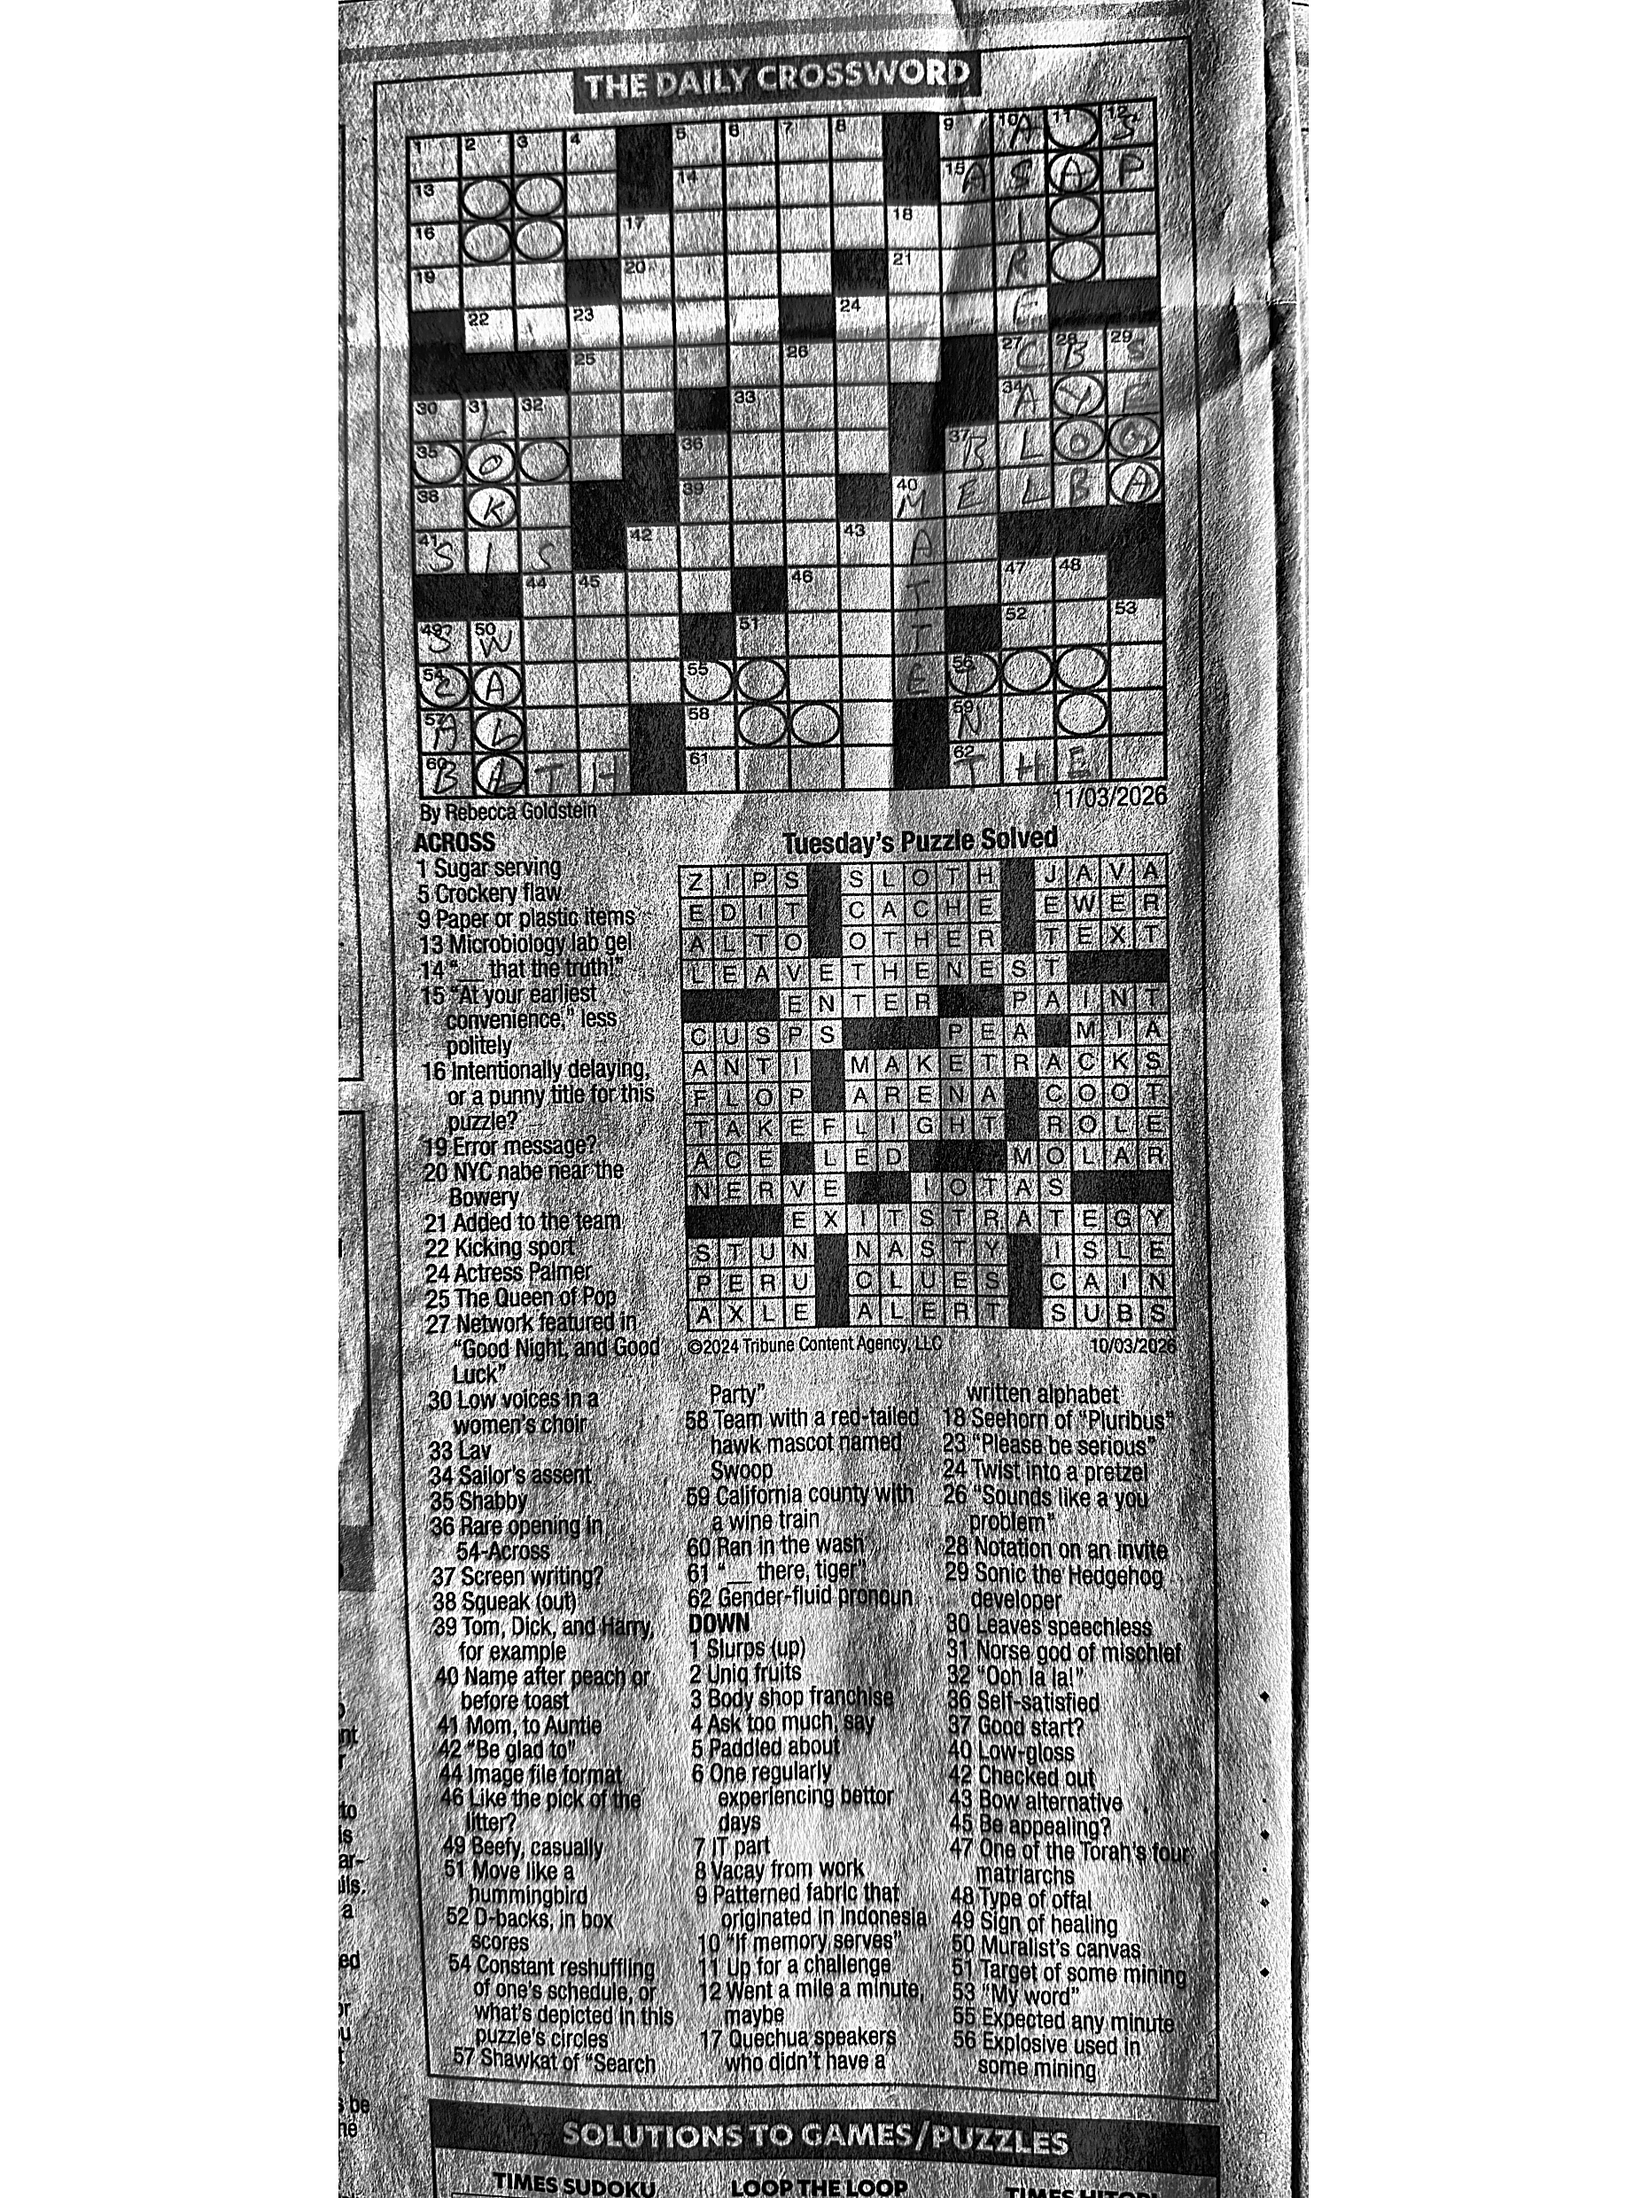
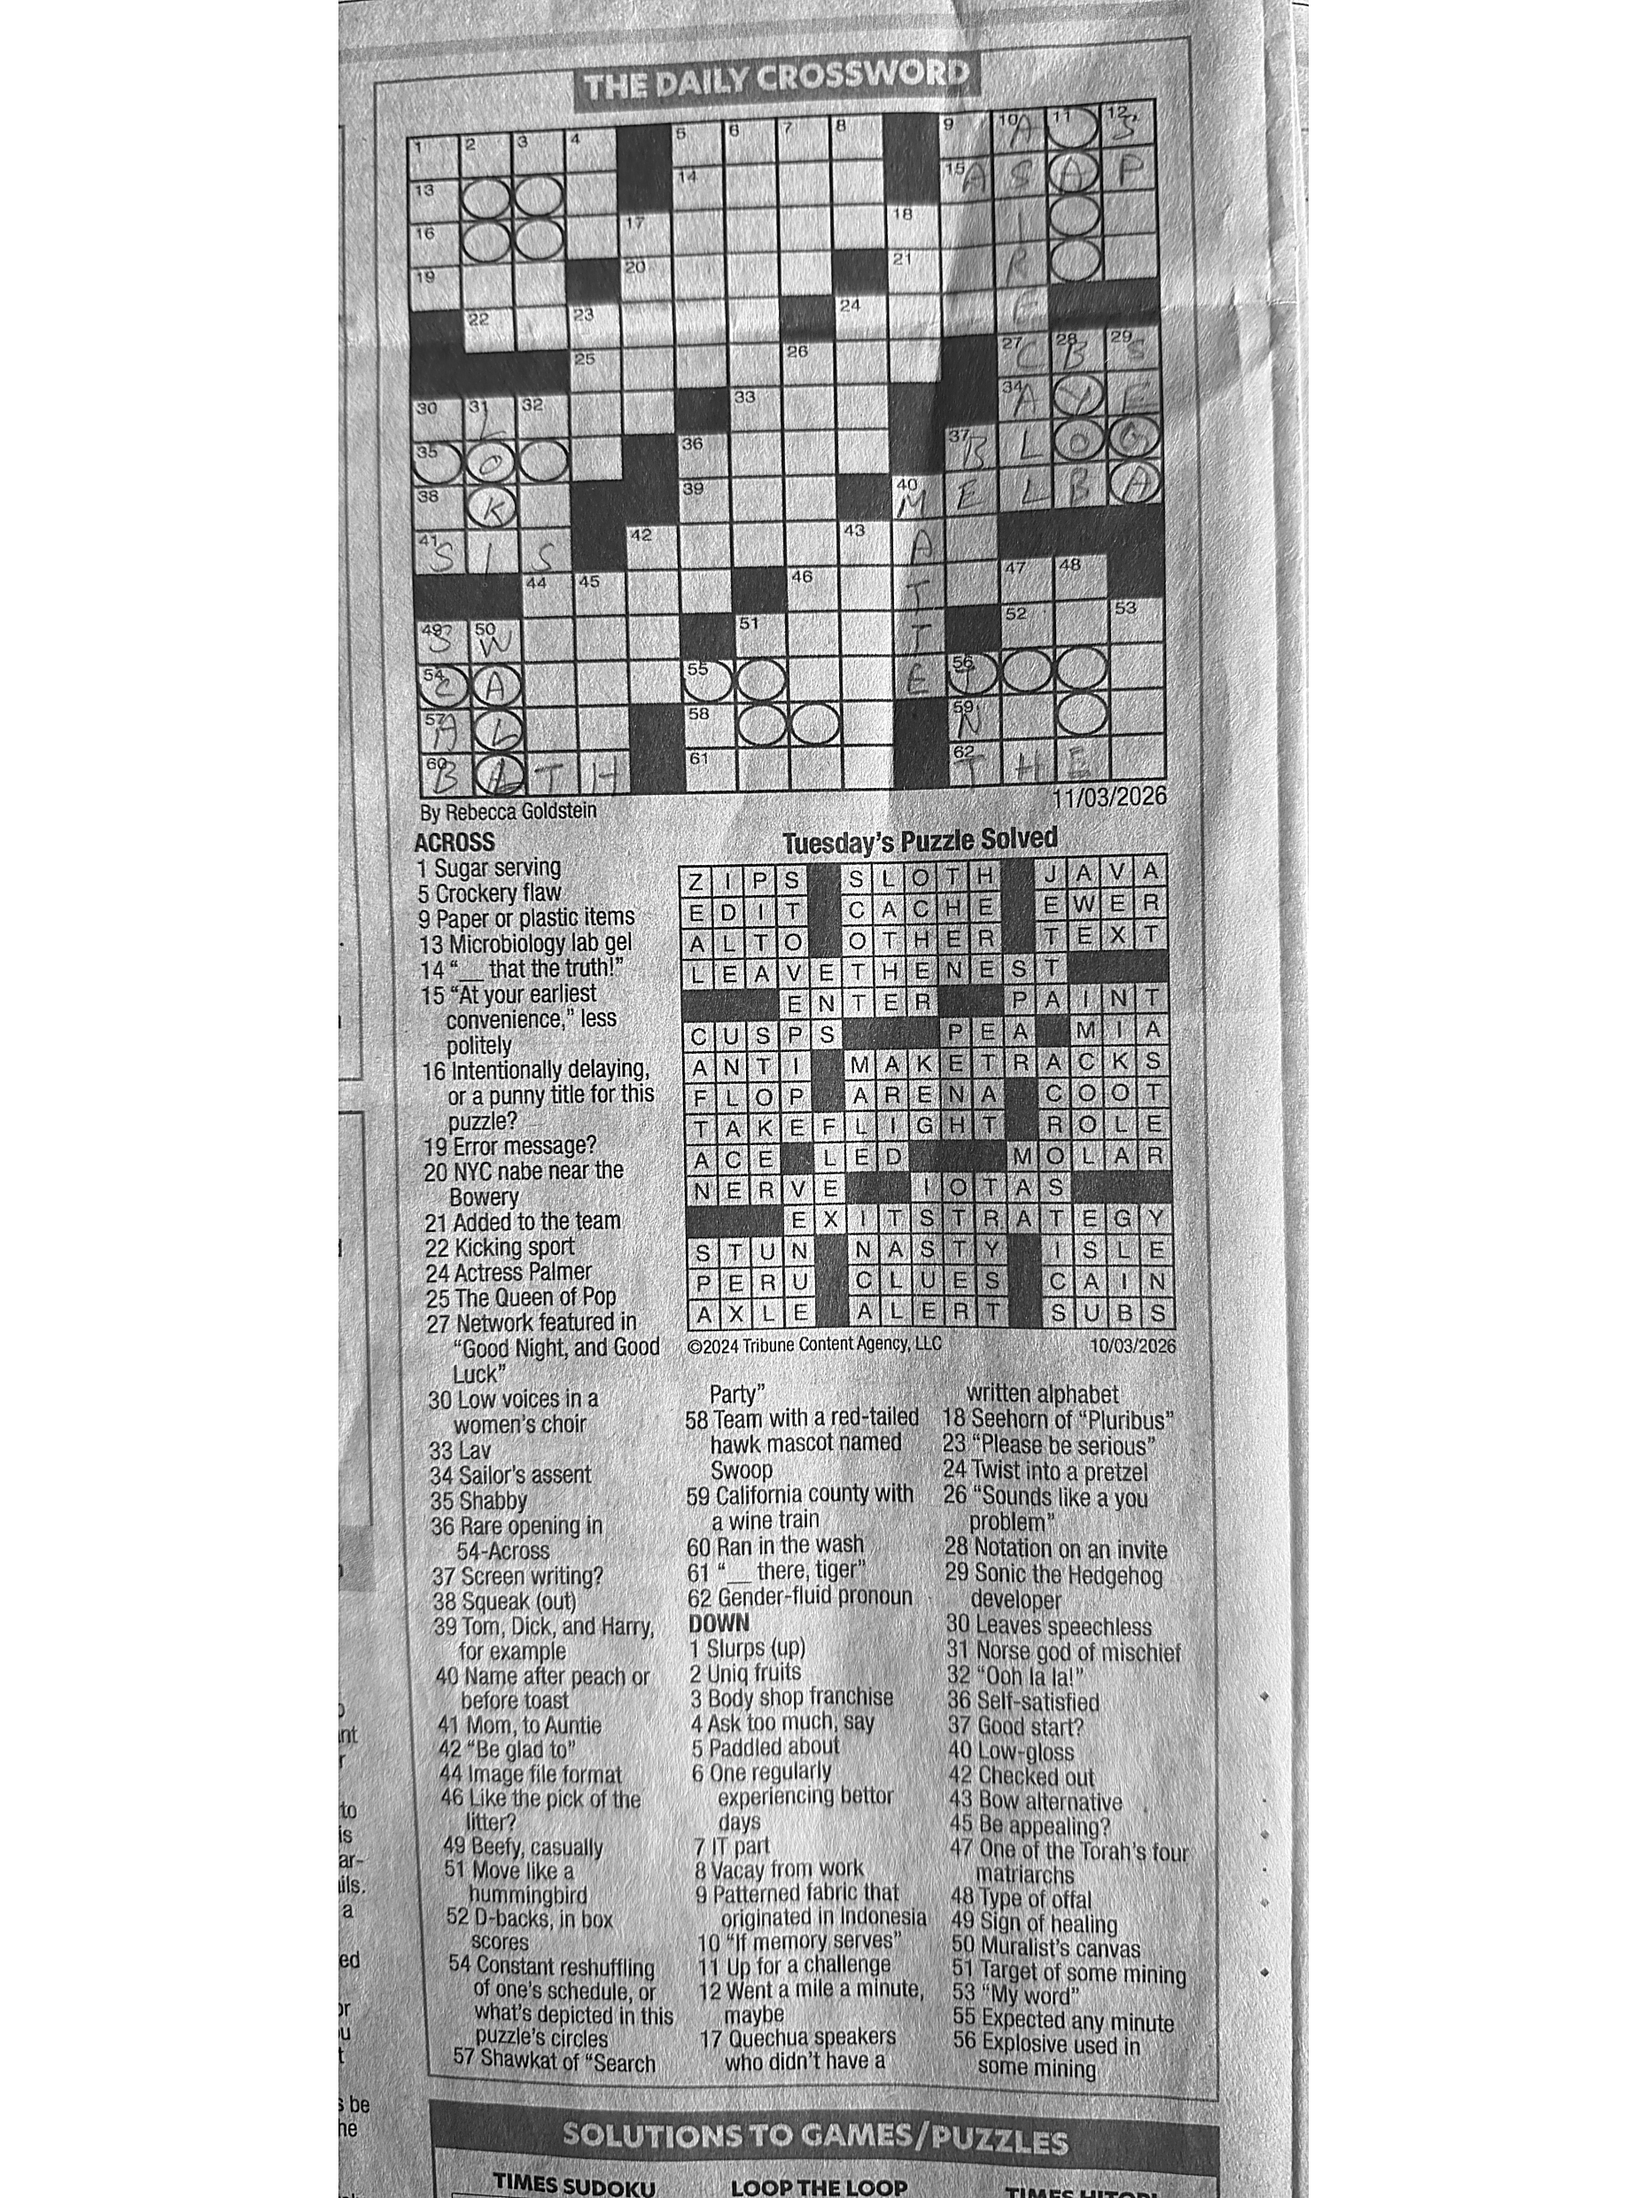
Remove all contrast enhancement — just grayscale, resize, sharpen
Analysis showed every enhancement (CLAHE, normalization, gamma, histogram
stretch) was making the image worse than the original. The source newspaper
photos already have good contrast — processing was destroying small clue
numbers and making the output look artificial.

Pipeline is now: grayscale → resize for Kindle → light sharpen. That's it.

https://claude.ai/code/session_01BaJXRtzuHPrvpeiTFP3pVD

diff --git a/kindle-crossword/app/image_processor.py b/kindle-crossword/app/image_processor.py
@@ -45,12 +45,6 @@ def process_image(input_path: str, output_path: str, options: dict) -> dict:
 
     img = _to_grayscale(img)
 
-    # CLAHE: local contrast enhancement that makes text/lines darker relative
-    # to their surrounding background. No histogram stretch after — keeps
-    # the natural gray background which preserves small clue numbers.
-    clahe = cv2.createCLAHE(clipLimit=3.0, tileGridSize=(8, 8))
-    img = clahe.apply(img)
-
     # Resize for Kindle
     target = options.get("kindle_model", "scribe")
     img = _resize_for_kindle(img, target)
